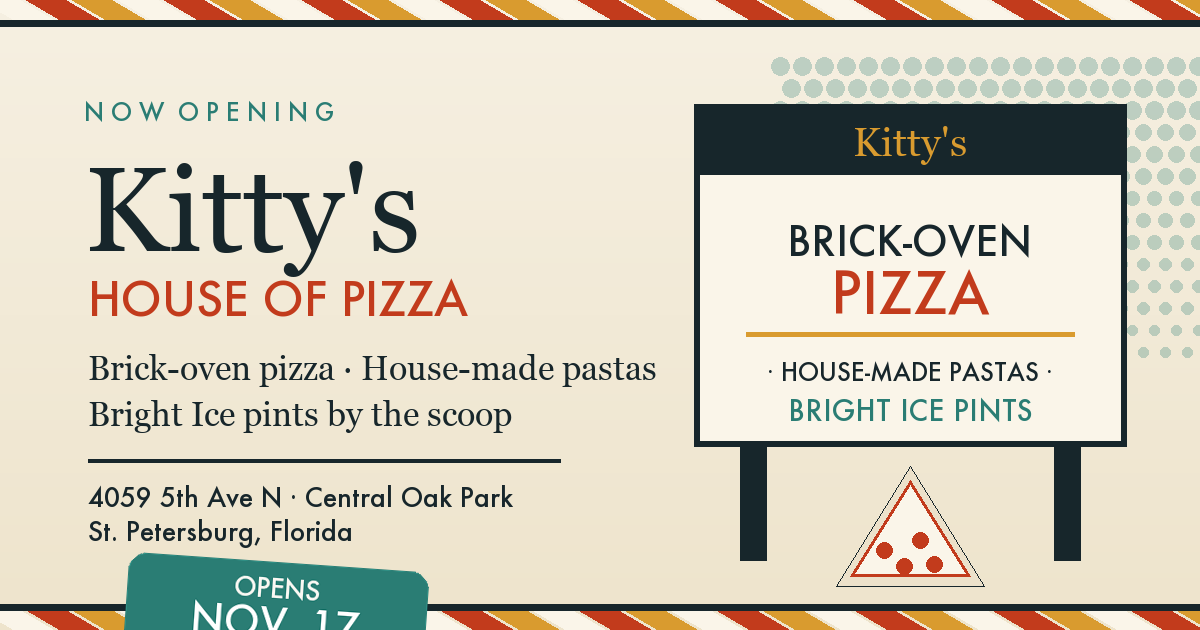
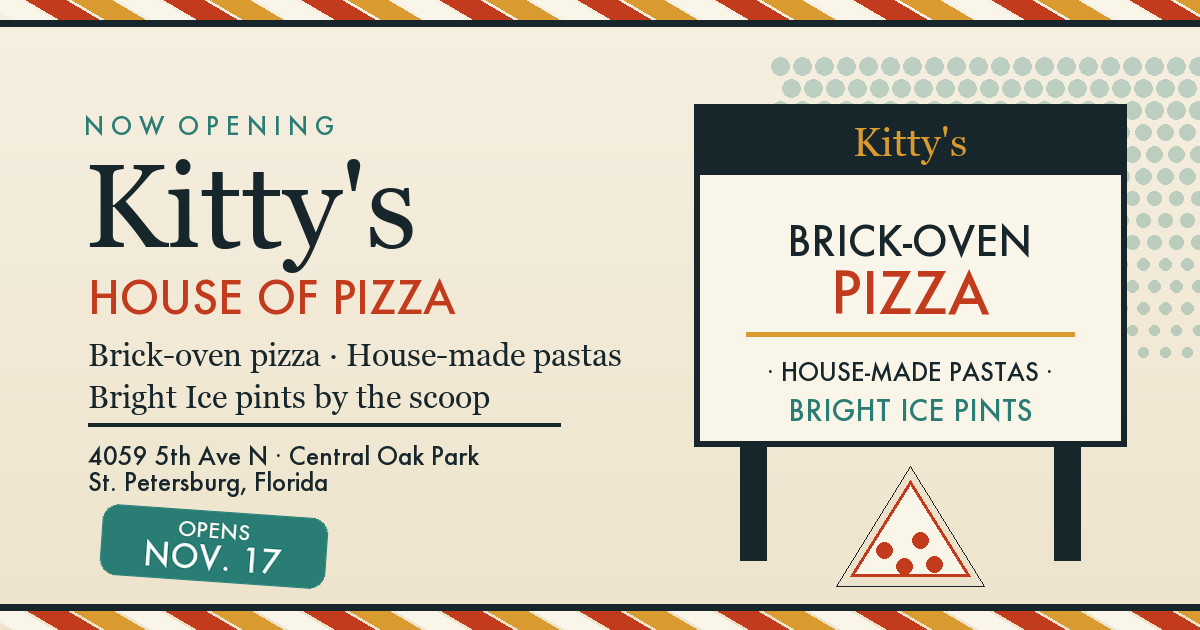
band CTA buttons: invert to cream fill on ink bands (border was invisible on dark bg)

diff --git a/public/style.css b/public/style.css
@@ -90,8 +90,8 @@ section+section{border-top:1px dashed rgba(23,38,43,.35)}
 .band{background:var(--ink);color:var(--cream);border-top:3px solid var(--ink);border-bottom:3px solid var(--ink);padding:54px 0}
 .band h2{color:#fff}
 .band p{color:var(--paper2);max-width:58ch}
-.band .btn{box-shadow:4px 4px 0 var(--tomato);margin-top:16px}
-.band .btn:hover{box-shadow:4px 4px 0 var(--gold)}
+.band .btn{background:var(--cream);color:var(--ink);border-color:var(--cream);box-shadow:4px 4px 0 var(--tomato);margin-top:16px}
+.band .btn:hover{background:var(--gold);border-color:var(--gold);color:var(--ink);box-shadow:4px 4px 0 var(--cream)}
 
 /* detail page hero band */
 .page-hero{background:

diff --git a/make_og.py b/make_og.py
@@ -55,25 +55,26 @@ d.rectangle((0, 20, W, 26), fill=INK)
 d.rectangle((0, H - 26, W, H - 20), fill=INK)
 
 # left text column
-d.font = sans(24)
-d.text((84, 96), "N O W  O P E N I N G", font=sans(24), fill=TEAL)
-d.text((84, 140), "Kitty's", font=serif(120), fill=INK)
-d.text((88, 268), "HOUSE OF PIZZA", font=sans(46), fill=TOMATO)
-d.text((88, 348), "Brick-oven pizza · House-made pastas", font=serif(34), fill=INK)
-d.text((88, 394), "Bright Ice pints by the scoop", font=serif(34), fill=INK)
-d.line([(88, 460), (560, 460)], fill=INK, width=4)
-d.text((88, 480), "4059 5th Ave N · Central Oak Park", font=sans(26), fill=INK)
-d.text((88, 514), "St. Petersburg, Florida", font=sans(26), fill=INK)
+d.text((84, 110), "N O W  O P E N I N G", font=sans(24), fill=TEAL)
+d.text((84, 138), "Kitty's", font=serif(118), fill=INK)
+d.text((88, 268), "HOUSE OF PIZZA", font=sans(44), fill=TOMATO)
+d.text((88, 336), "Brick-oven pizza · House-made pastas", font=serif(32), fill=INK)
+d.text((88, 378), "Bright Ice pints by the scoop", font=serif(32), fill=INK)
+d.line([(88, 424), (560, 424)], fill=INK, width=4)
+d.text((88, 440), "4059 5th Ave N · Central Oak Park", font=sans(24), fill=INK)
+d.text((88, 466), "St. Petersburg, Florida", font=sans(24), fill=INK)
 
-# rotated opening badge
-badge_w, badge_h = 300, 92
+# rotated opening badge — below the text block, clear of the bottom stripe
+badge_w, badge_h = 225, 70
 badge = Image.new("RGBA", (badge_w + 20, badge_h + 20), (0, 0, 0, 0))
 bd = ImageDraw.Draw(badge)
-bd.rounded_rectangle((10, 10, 10 + badge_w, 10 + badge_h), radius=18, fill=TEAL)
-bd.text((badge_w // 2 + 10, badge_h // 2 + 10 - 20), "OPENS", font=sans(26), fill=(255, 255, 255, 200), anchor="mm")
-bd.text((badge_w // 2 + 10, badge_h // 2 + 10 + 14), "NOV. 17", font=sans(40), fill=(255, 255, 255, 255), anchor="mm")
+bd.rounded_rectangle((10, 10, 10 + badge_w, 10 + badge_h), radius=16, fill=TEAL)
+bd.text((badge_w // 2 + 10, badge_h // 2 + 10 - 16), "OPENS", font=sans(21), fill=(255, 255, 255, 200), anchor="mm")
+bd.text((badge_w // 2 + 10, badge_h // 2 + 10 + 11), "NOV. 17", font=sans(32), fill=(255, 255, 255, 255), anchor="mm")
 badge = badge.rotate(-4, expand=True, resample=Image.BICUBIC)
-img.alpha_composite(badge, (112, 540)) if img.mode == "RGBA" else img.paste(badge, (112, 540), badge.convert("RGBA"))
+bw_new, bh_new = badge.size
+bx, by = 88, 604 - bh_new - 4
+img.paste(badge, (bx, by), badge.convert("RGBA"))
 
 # right: retro price sign on posts
 sx, sy, sw, sh = 700, 110, 420, 330
